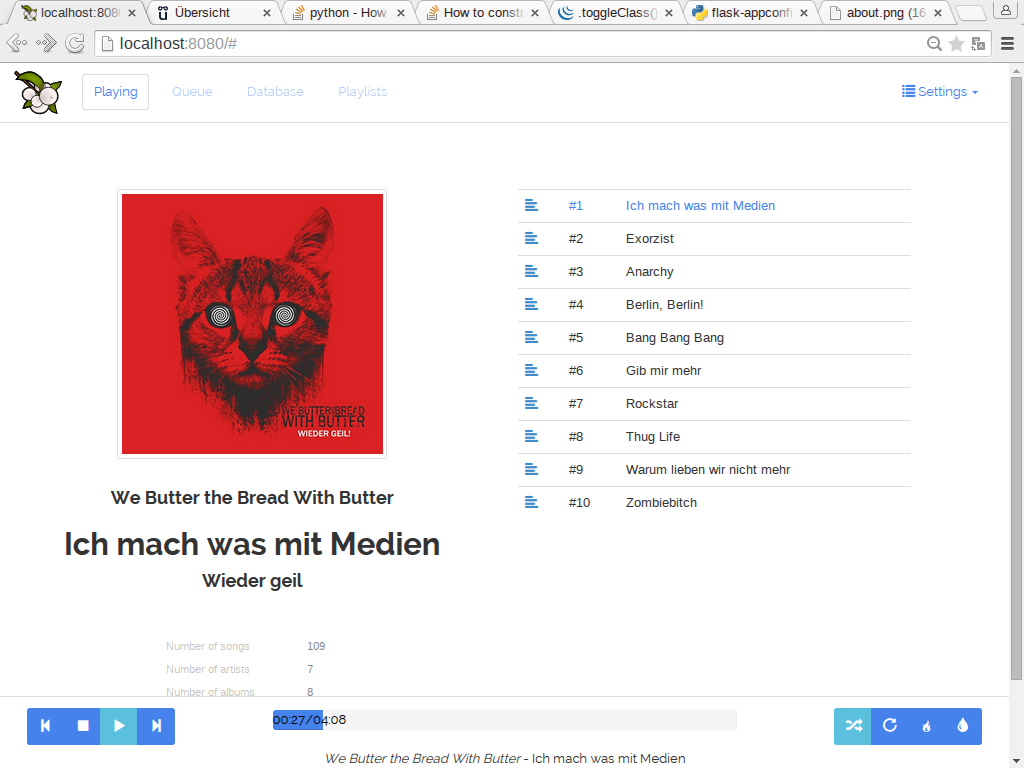
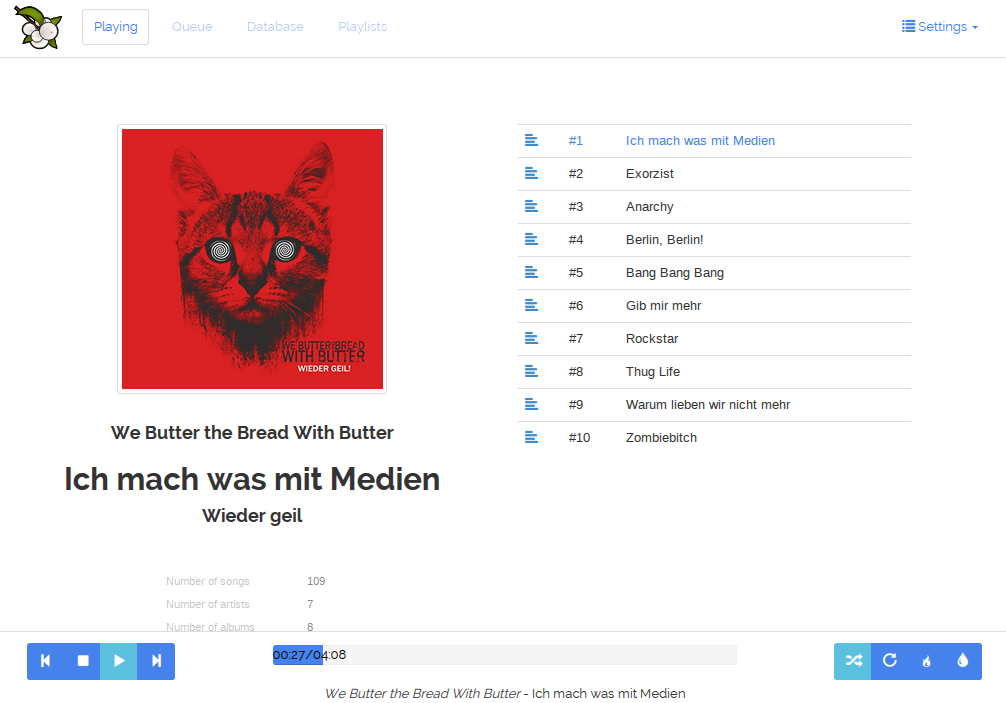
Fix readme screenshots.

diff --git a/README.rst b/README.rst
@@ -3,11 +3,15 @@ Snøbær
 
 .. image:: https://raw.githubusercontent.com/studentkittens/snobaer/master/snobaer/static/about.png
     :align: center
-    :width: 100%
 
 A neat mpd webclient targeted at the Raspberry Pi.
 
+Desktop version
+---------------
+
 .. image:: https://raw.githubusercontent.com/studentkittens/snobaer/master/docs/screenshot_full.png
 
+Mobile version
+--------------
 
 .. image:: https://raw.githubusercontent.com/studentkittens/snobaer/master/docs/screenshot_small.png
